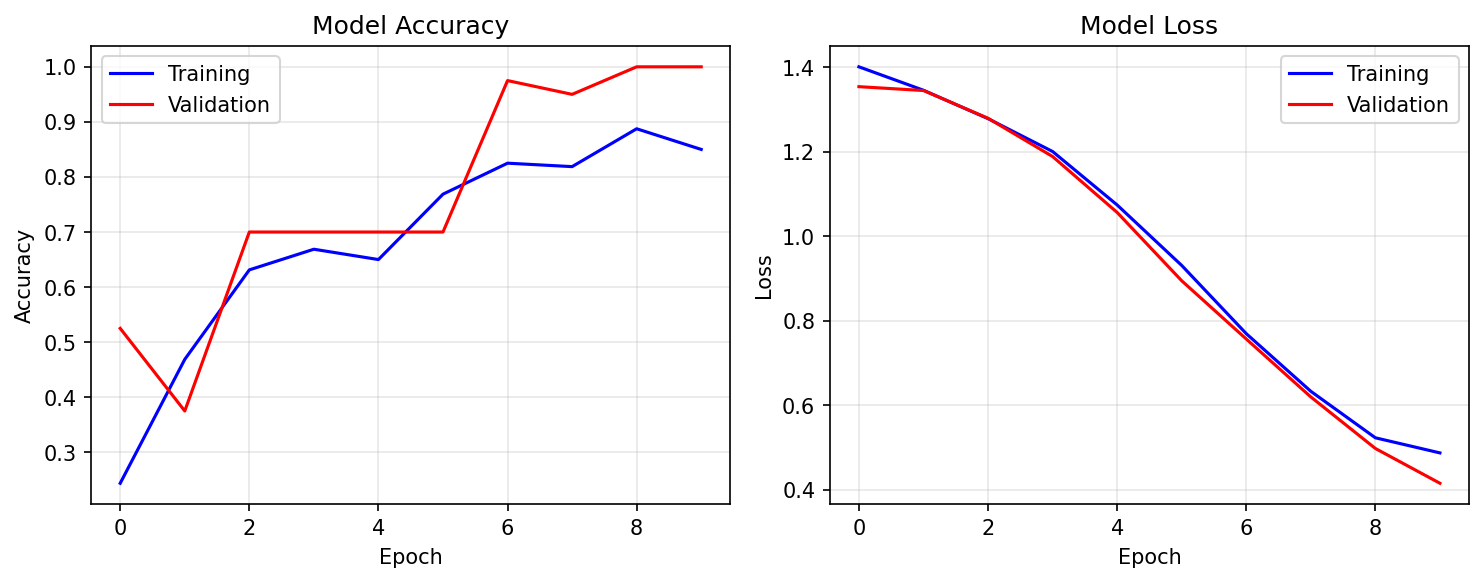
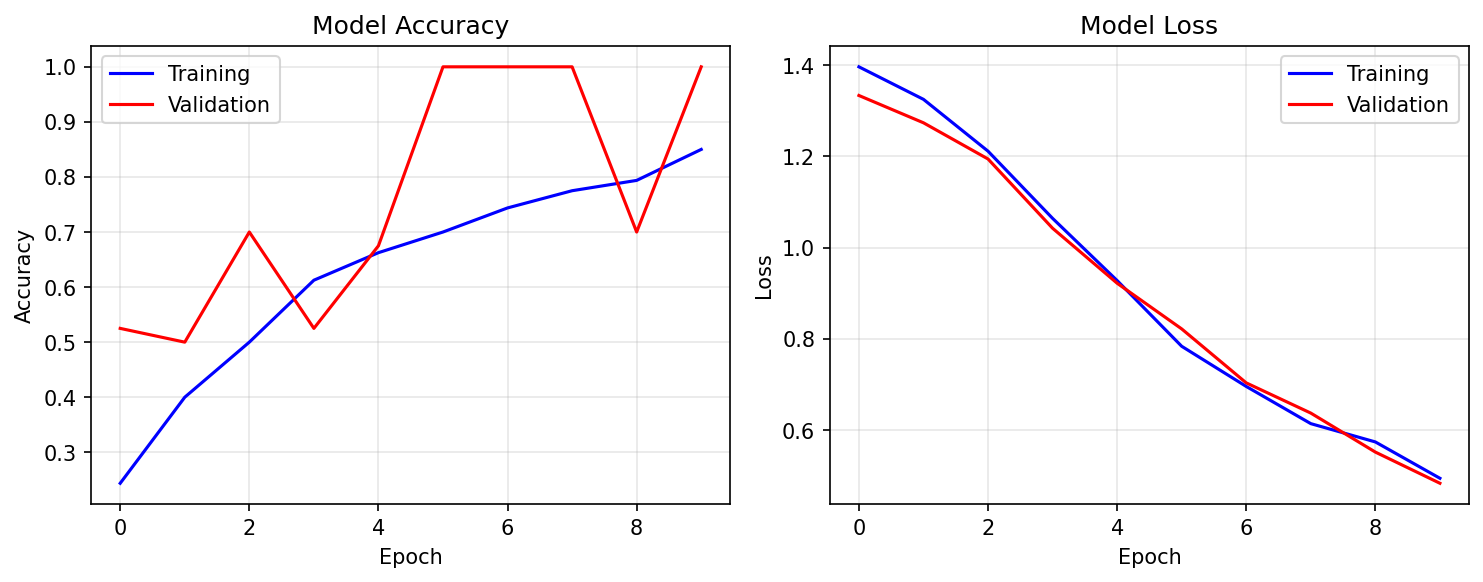
Update API to use latest trained model (1819)

diff --git a/backend/ml_training/production_apple_api.py b/backend/ml_training/production_apple_api.py
@@ -33,7 +33,7 @@ def load_model():
     """Load the trained model and metadata"""
     global model, model_metadata
     
-    model_path = Path(__file__).parent / "apple_model_local_1808.h5"
+    model_path = Path(__file__).parent / "apple_model_local_1819.h5"
     metadata_path = Path(__file__).parent / "model_metadata.json"
     
     try:
